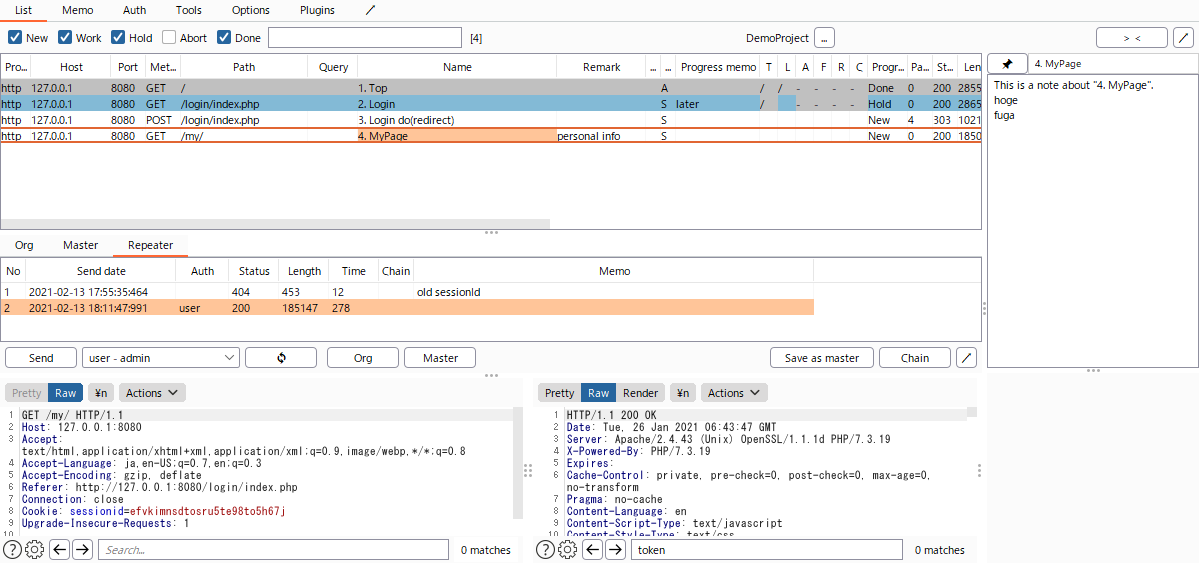
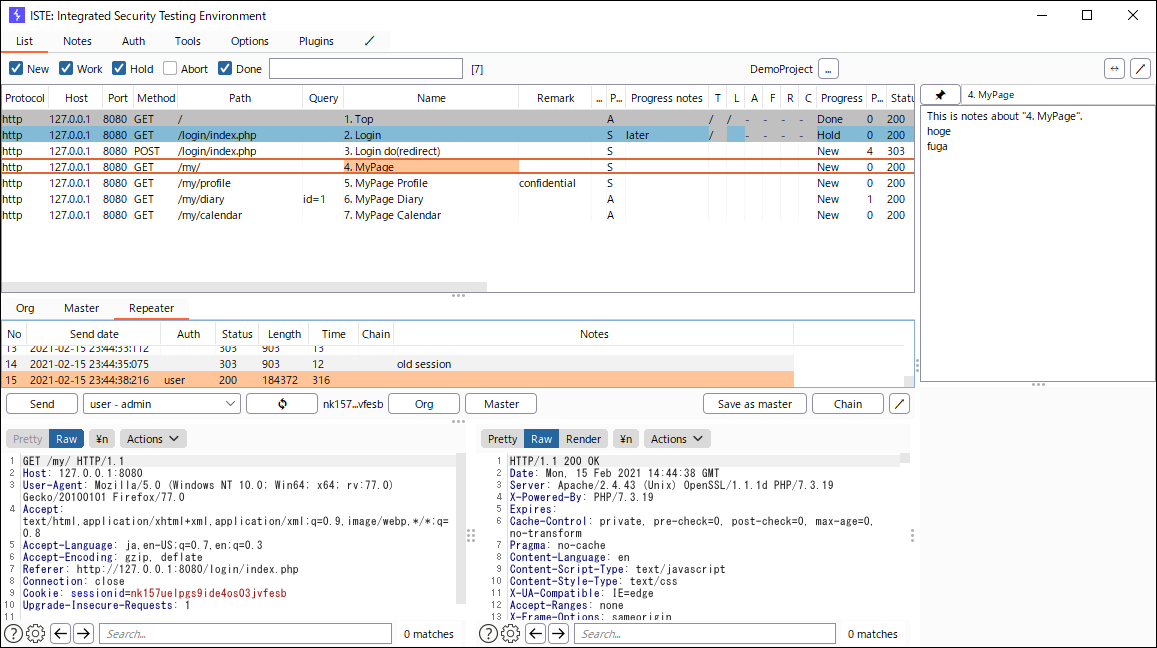
fix

Changed region(s): [[0.0, 0.0, 1.0, 1.0], [0.7468, 0.8153, 0.7779, 0.8757]]

diff --git a/src/main/java/okuken/iste/consts/Captions.java b/src/main/java/okuken/iste/consts/Captions.java
@@ -22,7 +22,7 @@ public class Captions {
 	public static final String CONTEXT_MENU_SEND_TO = "Send to ISTE";	
 	public static final String TAB_SUITE = "ISTE";
 	public static final String TAB_MAIN = "List";
-	public static final String TAB_MEMO = "Memo";
+	public static final String TAB_MEMO = "Notes";
 	public static final String TAB_AUTH = "Auth";
 	public static final String TAB_TOOLS = "Tools";
 	public static final String TAB_OPTIONS = "Options";
@@ -45,7 +45,7 @@ public class Captions {
 	public static final String MAIN_HEADER_INPUT_FILTER_TERM_TT = "Filter rows by search term";
 	public static final String MAIN_HEADER_BUTTON_CHANGE_PROJECT = "...";
 	public static final String MAIN_HEADER_BUTTON_CHANGE_PROJECT_TT = "Select ISTE project";
-	public static final String MAIN_HEADER_BUTTON_INIT_COLUMN_WIDTH = "> <";
+	public static final String MAIN_HEADER_BUTTON_INIT_COLUMN_WIDTH = "\u2194";
 	public static final String MAIN_HEADER_BUTTON_INIT_COLUMN_WIDTH_TT = "Adjust layout";
 
 	public static final String TABLE_CONTEXT_MENU_SEND_REQUEST_REPEATER = "Send request (Repeater)";
@@ -95,7 +95,7 @@ public class Captions {
 	public static final String CHAIN_DEF_CANCEL = "Cancel";
 
 	public static final String MESSAGE_MEMO_TOGGLE_PIN = "\uD83D\uDCCC";
-	public static final String MESSAGE_MEMO_TOGGLE_PIN_TT = "Pin the memo";
+	public static final String MESSAGE_MEMO_TOGGLE_PIN_TT = "Pin the notes";
 
 	public static final String PROJECT_MEMO_BUTTON_WRAP = "\u21A9";
 	public static final String PROJECT_MEMO_BUTTON_WRAP_TT = "Wrap text";
@@ -107,9 +107,9 @@ public class Captions {
 	public static final String AUTH_CONFIG_BUTTON_EDIT_CHAIN_TT = "Open authentication request chain window";
 	public static final String AUTH_CONFIG_POPUP_TITLE_EDIT_CHAIN = "Auth config - Edit request chain";
 
-	public static final String TOOLS_EXPORT_BUTTON_EXPORT_MEMO_TO_TXT_FILE = "Export memo (.md)";
+	public static final String TOOLS_EXPORT_BUTTON_EXPORT_MEMO_TO_TXT_FILE = "Export notes (.md)";
 	public static final String TOOLS_EXPORT_CHECKBOX_FILTER = "Filter";
-	public static final String TOOLS_EXPORT_CHECKBOX_FILTER_TT = "Apply filter of List tab to export memo";
+	public static final String TOOLS_EXPORT_CHECKBOX_FILTER_TT = "Apply filter of List tab to export notes";
 
 	public static final String PROJECT_OPTIONS_PROJECT_NAME = "Project name";
 	public static final String PROJECT_OPTIONS_BUTTON_SAVE = "Save";
@@ -131,7 +131,7 @@ public class Captions {
 	public static final String MESSAGE_MIGRATION = "Are you sure you want to perform database migration now?";
 	public static final String MESSAGE_SELECT_PROJECT = "Select ISTE project";
 	public static final String MESSAGE_DELETE_ITEM = "Are you sure you want to delete the selected item?";
-	public static final String MESSAGE_CHOOSE_EXPORT_FILE = "Export memo (.md)";
+	public static final String MESSAGE_CHOOSE_EXPORT_FILE = "Export notes (.md)";
 	public static final String MESSAGE_CHOOSE_PLUGIN_FILE = "Choose ISTE plugin jar file";
 
 }

diff --git a/src/main/java/okuken/iste/view/message/table/MessageTableColumn.java b/src/main/java/okuken/iste/view/message/table/MessageTableColumn.java
@@ -16,7 +16,7 @@ public enum MessageTableColumn {
 	AUTH		("Auth",			30,			true,  false, "getAuthMatrix",						"setAuthMatrix",					String.class),
 	PRIORITY	("Priority",		15,			true,  false, "getPriority",						"setPriority",						String.class),
 	PROGRESS	("Progress",		40,			true,  false, "getProgress",						"setProgress",						SecurityTestingProgress.class),
-	PROGRESS_MEMO("Progress memo",	60,			true,  false, "getProgressMemo",					"setProgressMemo",					String.class),
+	PROGRESS_MEMO("Progress notes",	60,			true,  false, "getProgressMemo",					"setProgressMemo",					String.class),
 	PROGRESS_TECHNICAL		("T",	18,			true,  true,  "getProgressTechnical", 				"setProgressTechnical",				String.class),
 	PROGRESS_LOGICAL		("L",	18,			true,  true,  "getProgressLogical",					"setProgressLogical",				String.class),
 	PROGRESS_AUTHENTICATION	("A",	18,			true,  true,  "getProgressAuthentication",			"setProgressAuthentication",		String.class),

diff --git a/src/main/java/okuken/iste/logic/ExportLogic.java b/src/main/java/okuken/iste/logic/ExportLogic.java
@@ -34,7 +34,7 @@ public class ExportLogic {
 			bw.newLine();
 
 			for(int i = 0; i < projectMemos.size(); i++) {
-				writeln(bw, String.format("## Project memo %d", i + 1));
+				writeln(bw, String.format("## Project notes %d", i + 1));
 
 				if(StringUtils.isNotBlank(projectMemos.get(i).getMemo())) {
 					writeln(bw, "```");
@@ -45,7 +45,7 @@ public class ExportLogic {
 				bw.newLine();
 			}
 
-			writeln(bw, "## Request memo");
+			writeln(bw, "## Request notes");
 			bw.newLine();
 
 			for(MessageDto messageDto: messageDtos) {

diff --git a/src/main/java/okuken/iste/view/repeater/RepeatTablePanel.java b/src/main/java/okuken/iste/view/repeater/RepeatTablePanel.java
@@ -61,7 +61,7 @@ public class RepeatTablePanel extends JPanel {
 				{null, null, null, null, null, null, null, null, null},
 			},
 			new String[] {
-				"No", "Send date", "Auth", "Status", "Length", "Time", "Chain", "Diff", "Memo"
+				"No", "Send date", "Auth", "Status", "Length", "Time", "Chain", "Diff", "Notes"
 			}
 		) {
 			boolean[] columnEditables = new boolean[] {
